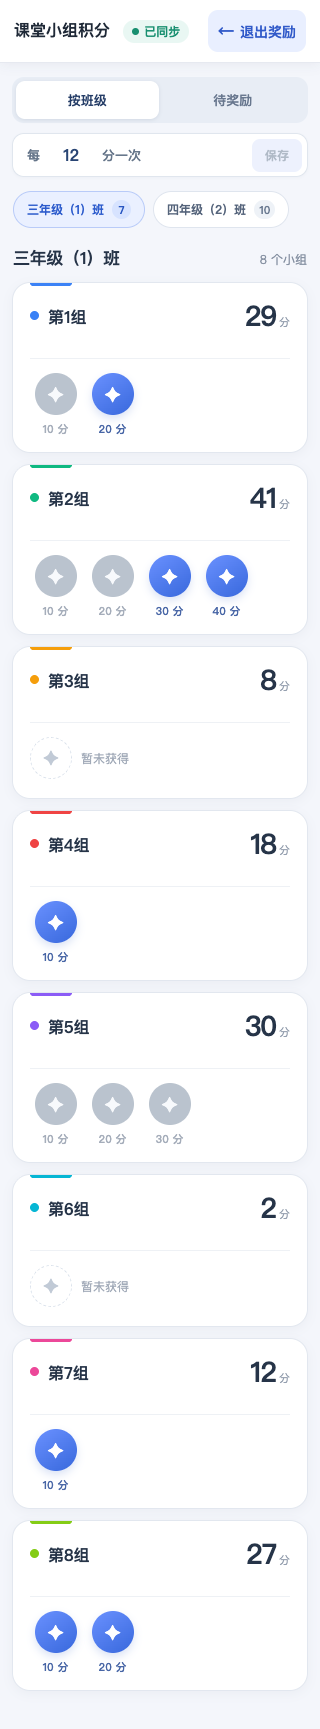
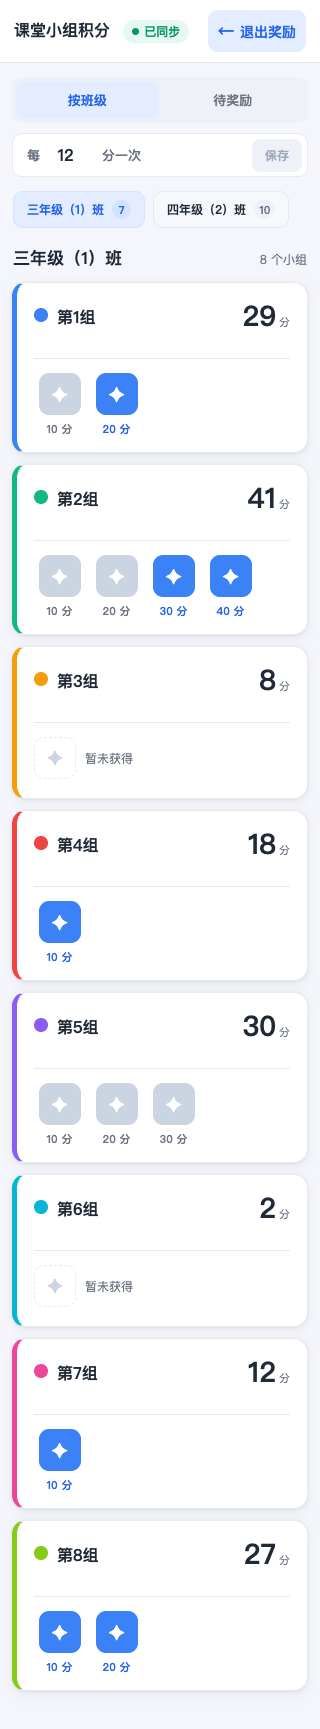
style: align rewards with board palette

diff --git a/application/static/style.css b/application/static/style.css
@@ -843,46 +843,45 @@ html { -webkit-text-size-adjust: 100%; }
 }
 
 /* 奖励 */
-#btn-rewards { background: #e9efff; color: #315ac9; font-weight: 650; }
-#btn-rewards:hover { background: #dce7ff; }
+#btn-rewards { background: #e3edff; color: var(--brand-dark); font-weight: 600; }
+#btn-rewards:hover { background: #d3e2ff; }
 #app.reward-mode .actions button:not(#btn-rewards) { display: none; }
-#app.reward-mode .topbar { position: sticky; top: 0; z-index: 20; box-shadow: 0 2px 12px rgba(26, 41, 70, .06); }
+#app.reward-mode .topbar { position: sticky; top: 0; z-index: 20; }
 #app.reward-mode #btn-rewards::before { content: '←'; margin-right: 6px; font-size: 16px; }
 .rewards-page { max-width: 1160px; margin: 0 auto; padding: 24px 20px 64px; }
 .reward-controlbar { display: flex; align-items: center; justify-content: space-between; flex-wrap: wrap; gap: 10px; margin: 0 0 13px; }
-.reward-tabs { display: inline-flex; gap: 3px; padding: 4px; border-radius: 12px; background: #e8edf5; }
-.reward-tabs button { min-width: 88px; padding: 9px 16px; border-radius: 9px; background: transparent; color: #68778e; font-size: 13px; font-weight: 650; }
-.reward-tabs button.on { background: #fff; color: #243c66; box-shadow: 0 1px 4px rgba(25, 45, 79, .11); }
-.reward-tabs button:focus-visible, .reward-class-chip:focus-visible { outline: 2px solid #4b79e6; outline-offset: 2px; }
+.reward-tabs { display: inline-flex; gap: 3px; padding: 4px; border-radius: 10px; background: #eef1f7; }
+.reward-tabs button { min-width: 88px; padding: 9px 16px; border-radius: 8px; background: transparent; color: var(--muted); font-size: 13px; font-weight: 600; }
+.reward-tabs button.on { background: #e3edff; color: var(--brand-dark); }
+.reward-tabs button:focus-visible, .reward-class-chip:focus-visible { outline: 2px solid var(--brand); outline-offset: 2px; }
 .reward-settings {
   display: inline-flex;
   align-items: center;
   gap: 6px;
   min-height: 44px;
   padding: 4px 5px 4px 14px;
-  border: 1px solid #e0e6ee;
-  border-radius: 12px;
-  background: #fff;
-  color: #66768a;
+  border: 1px solid var(--line);
+  border-radius: 10px;
+  background: var(--card);
+  color: var(--muted);
   font-size: 13px;
   font-weight: 600;
-  box-shadow: 0 1px 3px rgba(25, 45, 79, .03);
 }
-.reward-settings input { width: 50px; padding: 5px 1px; border: 0; border-bottom: 1px solid transparent; border-radius: 0; color: #294574; font-size: 16px; font-weight: 750; text-align: center; }
-.reward-settings input:focus { border-bottom-color: #4774de; }
-.reward-settings button { margin-left: 7px; padding: 8px 13px; border-radius: 8px; background: #e9efff; color: #315ac9; font-size: 12px; font-weight: 700; }
-.reward-settings button:hover:not(:disabled) { background: #dce7ff; }
-.reward-settings button:disabled { background: #f4f6f9; color: #b0bac7; cursor: default; }
+.reward-settings input { width: 50px; padding: 5px 1px; border: 0; border-bottom: 1px solid transparent; border-radius: 0; color: var(--text); font-size: 16px; font-weight: 700; text-align: center; }
+.reward-settings input:focus { border-bottom-color: var(--brand); }
+.reward-settings button { margin-left: 7px; padding: 8px 13px; border-radius: 8px; background: var(--brand); color: #fff; font-size: 12px; font-weight: 600; }
+.reward-settings button:hover:not(:disabled) { background: var(--brand-dark); }
+.reward-settings button:disabled { background: #eef1f7; color: #a0aaba; cursor: default; transition: none; }
 .reward-class-nav { display: flex; gap: 8px; overflow-x: auto; padding: 2px 1px 13px; scrollbar-width: none; -webkit-overflow-scrolling: touch; }
 .reward-class-nav::-webkit-scrollbar { display: none; }
-.reward-class-chip { display: inline-flex; align-items: center; gap: 8px; flex: none; padding: 8px 13px; border: 1px solid #dfe5ee; border-radius: 999px; background: #fff; color: #55647b; font-size: 12px; font-weight: 600; white-space: nowrap; }
-.reward-class-chip:hover { background: #f7f9fd; }
-.reward-class-chip.on { border-color: #b9cbf8; background: #eaf0ff; color: #2d5ccc; }
-.reward-class-chip span { display: grid; min-width: 19px; height: 19px; place-items: center; padding: 0 5px; border-radius: 99px; background: #eef2f7; color: #68788f; font-size: 11px; }
-.reward-class-chip.on span { background: #d7e3ff; color: #2856c1; }
+.reward-class-chip { display: inline-flex; align-items: center; gap: 8px; flex: none; padding: 8px 13px; border: 1px solid var(--line); border-radius: 10px; background: #f6f8fc; color: var(--text); font-size: 12px; font-weight: 600; white-space: nowrap; }
+.reward-class-chip:hover { background: #eef1f7; }
+.reward-class-chip.on { border-color: #d3e2ff; background: #e3edff; color: var(--brand-dark); }
+.reward-class-chip span { display: grid; min-width: 19px; height: 19px; place-items: center; padding: 0 5px; border-radius: 99px; background: #eef1f7; color: var(--muted); font-size: 11px; }
+.reward-class-chip.on span { background: #d3e2ff; color: var(--brand-dark); }
 .reward-section-head { display: flex; align-items: baseline; justify-content: space-between; gap: 12px; margin: 7px 1px 14px; }
-.reward-section-head h2 { margin: 0; color: #263448; font-size: 17px; font-weight: 750; letter-spacing: -.02em; }
-.reward-section-head span { color: #8792a3; font-size: 12px; white-space: nowrap; }
+.reward-section-head h2 { margin: 0; color: var(--text); font-size: 17px; font-weight: 700; }
+.reward-section-head span { color: var(--muted); font-size: 12px; white-space: nowrap; }
 .reward-grid { display: grid; grid-template-columns: repeat(auto-fill, minmax(280px, 1fr)); gap: 14px; }
 .reward-card {
   position: relative;
@@ -890,37 +889,37 @@ html { -webkit-text-size-adjust: 100%; }
   min-height: 158px;
   overflow: hidden;
   padding: 20px 20px 17px;
-  border: 1px solid #e2e7ef;
-  border-radius: 18px;
-  background: #fff;
-  box-shadow: 0 3px 11px rgba(26, 43, 70, .045);
+  border: 1px solid var(--line);
+  border-left: 5px solid var(--group-color, #5B9BD5);
+  border-radius: var(--radius);
+  background: var(--card);
+  box-shadow: var(--shadow);
 }
-.reward-card::before { content: ''; position: absolute; top: 0; left: 20px; width: 42px; height: 3px; border-radius: 0 0 99px 99px; background: var(--group-color, #4b79e6); }
 .reward-card-top { display: flex; align-items: flex-start; justify-content: space-between; gap: 10px; min-height: 40px; }
 .reward-card-identity { display: flex; align-items: flex-start; gap: 9px; min-width: 0; padding-top: 5px; }
-.reward-card-dot { width: 9px; height: 9px; flex: none; margin-top: 5px; border-radius: 50%; background: var(--group-color, #4b79e6); }
+.reward-card-dot { width: 14px; height: 14px; flex: none; margin-top: 2px; border-radius: 50%; background: var(--group-color, #5B9BD5); }
 .reward-card-names { min-width: 0; }
-.reward-card-names h3 { overflow: hidden; margin: 0; color: #263448; font-size: 16px; font-weight: 700; text-overflow: ellipsis; white-space: nowrap; }
-.reward-card-names > span { display: block; overflow: hidden; margin-top: 3px; color: #929dad; font-size: 11px; text-overflow: ellipsis; white-space: nowrap; }
-.reward-card-score { display: flex; align-items: baseline; gap: 3px; flex: none; color: #263448; font-variant-numeric: tabular-nums; }
-.reward-card-score strong { font-size: 28px; font-weight: 750; line-height: 1.1; letter-spacing: -.04em; }
-.reward-card-score span { color: #929dad; font-size: 11px; }
-.reward-card-tokens { display: flex; align-items: flex-start; flex-wrap: wrap; gap: 8px; min-height: 61px; margin-top: 17px; padding-top: 14px; border-top: 1px solid #eef1f5; }
-.reward-token { display: inline-flex; width: 51px; min-height: 61px; flex: none; flex-direction: column; align-items: center; gap: 6px; padding: 0; background: transparent; color: #4866a6; }
+.reward-card-names h3 { overflow: hidden; margin: 0; color: var(--text); font-size: 16px; font-weight: 600; text-overflow: ellipsis; white-space: nowrap; }
+.reward-card-names > span { display: block; overflow: hidden; margin-top: 3px; color: var(--muted); font-size: 11px; text-overflow: ellipsis; white-space: nowrap; }
+.reward-card-score { display: flex; align-items: baseline; gap: 3px; flex: none; color: var(--text); font-variant-numeric: tabular-nums; }
+.reward-card-score strong { font-size: 28px; font-weight: 800; line-height: 1.1; }
+.reward-card-score span { color: var(--muted); font-size: 11px; }
+.reward-card-tokens { display: flex; align-items: flex-start; flex-wrap: wrap; gap: 8px; min-height: 61px; margin-top: 17px; padding-top: 14px; border-top: 1px solid var(--line); }
+.reward-token { display: inline-flex; width: 51px; min-height: 61px; flex: none; flex-direction: column; align-items: center; gap: 6px; padding: 0; background: transparent; color: var(--brand-dark); }
 .reward-token:hover { background: transparent; }
-.reward-token:focus-visible { outline: 2px solid #4b79e6; outline-offset: 2px; }
-.reward-token-disc { display: grid; width: 42px; height: 42px; place-items: center; border-radius: 50%; background: linear-gradient(145deg, #6a91ff, #3868dc); color: #fff; box-shadow: 0 4px 9px rgba(52, 97, 199, .19); font-size: 21px; transition: transform .15s ease, box-shadow .15s ease; }
-.reward-token:hover .reward-token-disc { transform: translateY(-2px); box-shadow: 0 6px 11px rgba(52, 97, 199, .24); }
-.reward-token.completed { color: #a5adba; }
-.reward-token.completed .reward-token-disc { background: #bac3ce; color: #f7f9fc; box-shadow: none; }
-.reward-token.completed:hover .reward-token-disc { box-shadow: 0 3px 8px rgba(78, 90, 107, .12); }
+.reward-token:focus-visible { outline: 2px solid var(--brand); outline-offset: 2px; }
+.reward-token-disc { display: grid; width: 42px; height: 42px; place-items: center; border-radius: 10px; background: var(--brand); color: #fff; font-size: 21px; transition: background .15s ease; }
+.reward-token:hover .reward-token-disc { background: var(--brand-dark); }
+.reward-token.completed { color: var(--muted); }
+.reward-token.completed .reward-token-disc { background: #cbd5e1; color: #fff; }
+.reward-token.completed:hover .reward-token-disc { background: #b9c6d6; }
 .reward-token-threshold { font-size: 11px; font-weight: 650; font-variant-numeric: tabular-nums; white-space: nowrap; }
-.reward-card-empty { display: inline-flex; align-items: center; gap: 9px; color: #a1aab8; font-size: 12px; }
-.reward-card-empty span { display: grid; width: 42px; height: 42px; place-items: center; border: 1px dashed #dce3ec; border-radius: 50%; color: #c1cad6; font-size: 20px; }
-.reward-empty { display: flex; min-height: 170px; align-items: center; justify-content: center; padding: 30px; border: 1px solid #e4e9f1; border-radius: 18px; background: #fff; color: #8792a3; text-align: center; font-size: 14px; }
+.reward-card-empty { display: inline-flex; align-items: center; gap: 9px; color: var(--muted); font-size: 12px; }
+.reward-card-empty span { display: grid; width: 42px; height: 42px; place-items: center; border: 1px dashed var(--line); border-radius: 10px; color: #cbd5e1; font-size: 20px; }
+.reward-empty { display: flex; min-height: 170px; align-items: center; justify-content: center; padding: 30px; border: 1px solid var(--line); border-radius: var(--radius); background: var(--card); color: var(--muted); text-align: center; font-size: 14px; }
 .reward-empty-clear { flex-direction: column; gap: 7px; }
-.reward-empty-clear span { color: #6688d5; font-size: 28px; }
-.reward-empty-clear strong { color: #58677e; font-size: 14px; font-weight: 600; }
+.reward-empty-clear span { color: var(--brand); font-size: 28px; }
+.reward-empty-clear strong { color: var(--text); font-size: 14px; font-weight: 600; }
 @media (max-width: 720px) {
   #app.reward-mode .topbar { flex-wrap: nowrap; }
   #app.reward-mode .actions { width: auto; flex: none; margin-left: auto; overflow: visible; padding-bottom: 0; }
@@ -934,6 +933,5 @@ html { -webkit-text-size-adjust: 100%; }
   .reward-section-head { margin: 5px 1px 12px; }
   .reward-grid { grid-template-columns: minmax(0, 1fr); gap: 11px; }
   .reward-card { min-height: 150px; padding: 18px 17px 15px; }
-  .reward-card::before { left: 17px; }
   .reward-card-tokens { gap: 6px; }
 }

diff --git a/application/static/index.html b/application/static/index.html
@@ -14,7 +14,7 @@
   <link rel="icon" type="image/png" sizes="32x32" href="/favicon-32.png?v=20260915">
   <link rel="icon" href="/favicon.ico?v=20260915" sizes="any">
   <link rel="apple-touch-icon" href="/apple-touch-icon.png?v=20260915">
-  <link rel="stylesheet" href="/style.css?v=20260925c">
+  <link rel="stylesheet" href="/style.css?v=20260925d">
 </head>
 <body>
 
